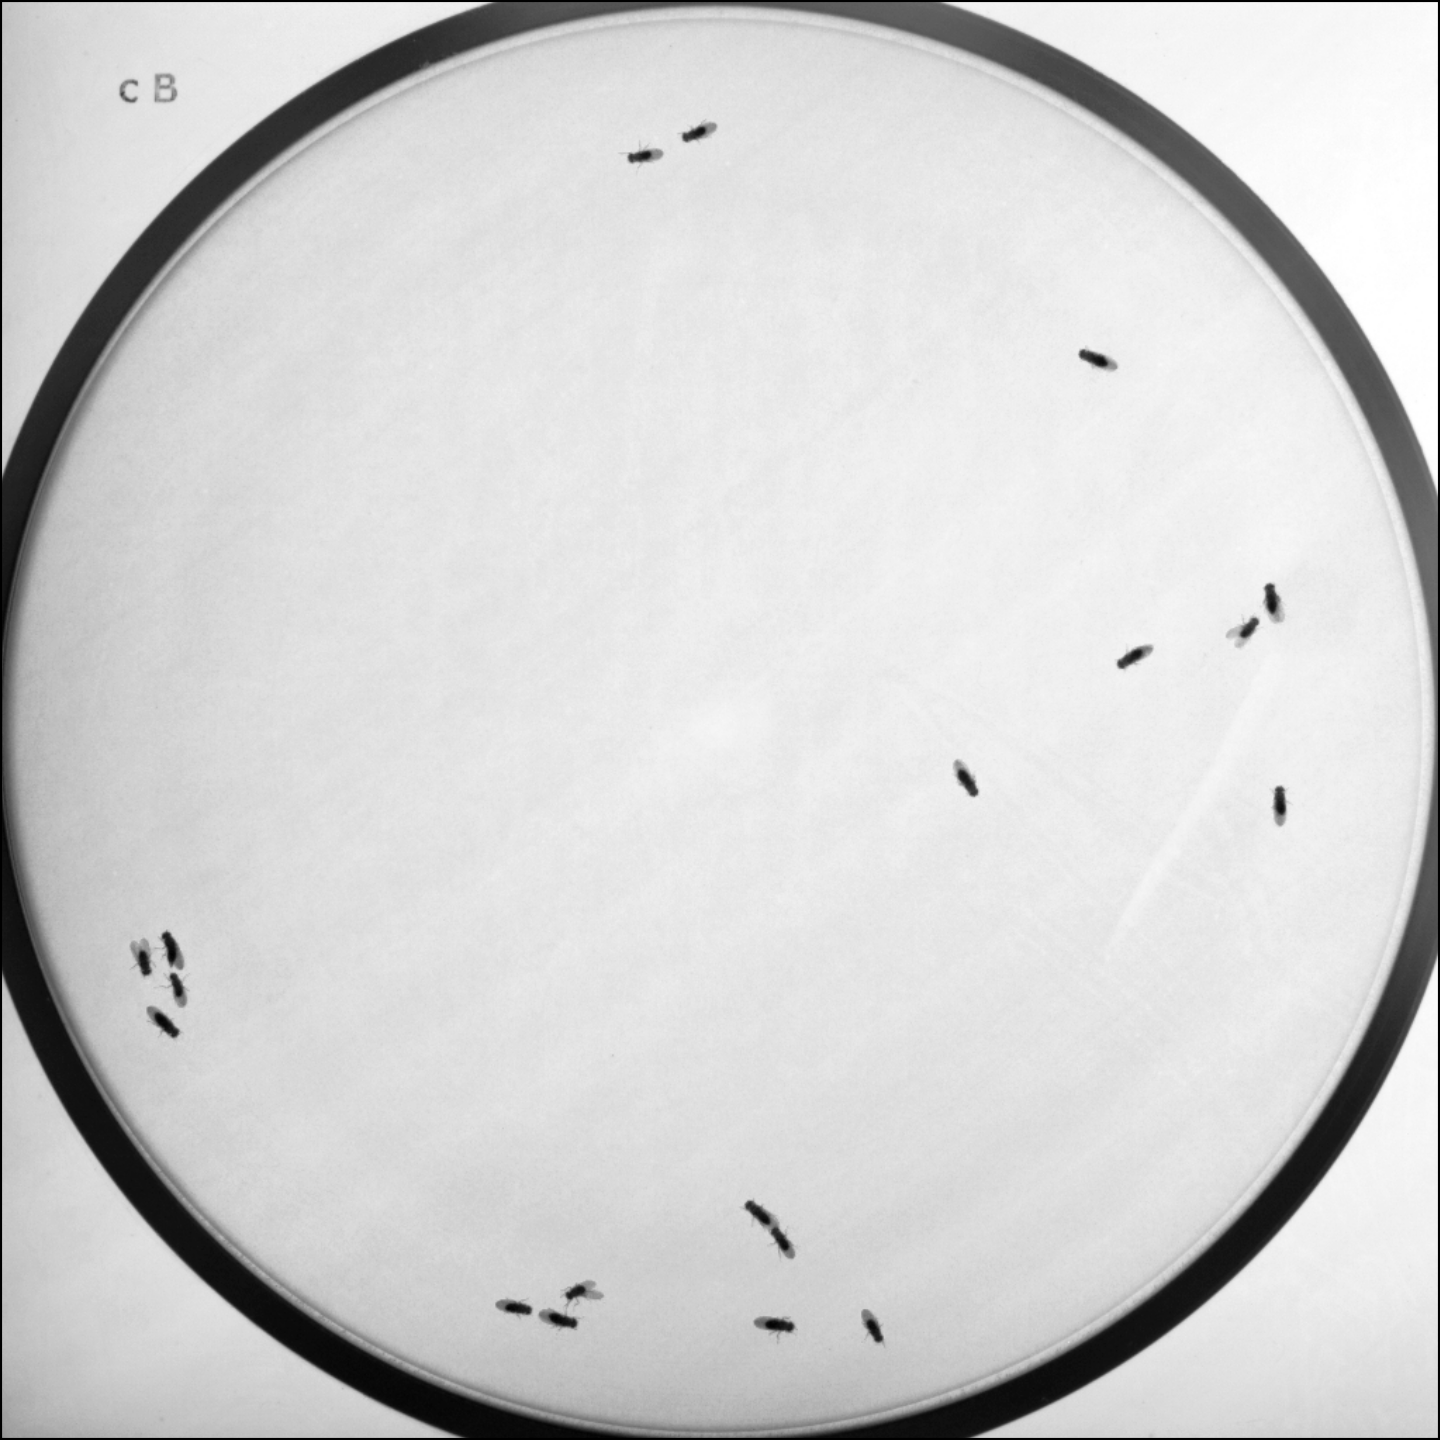
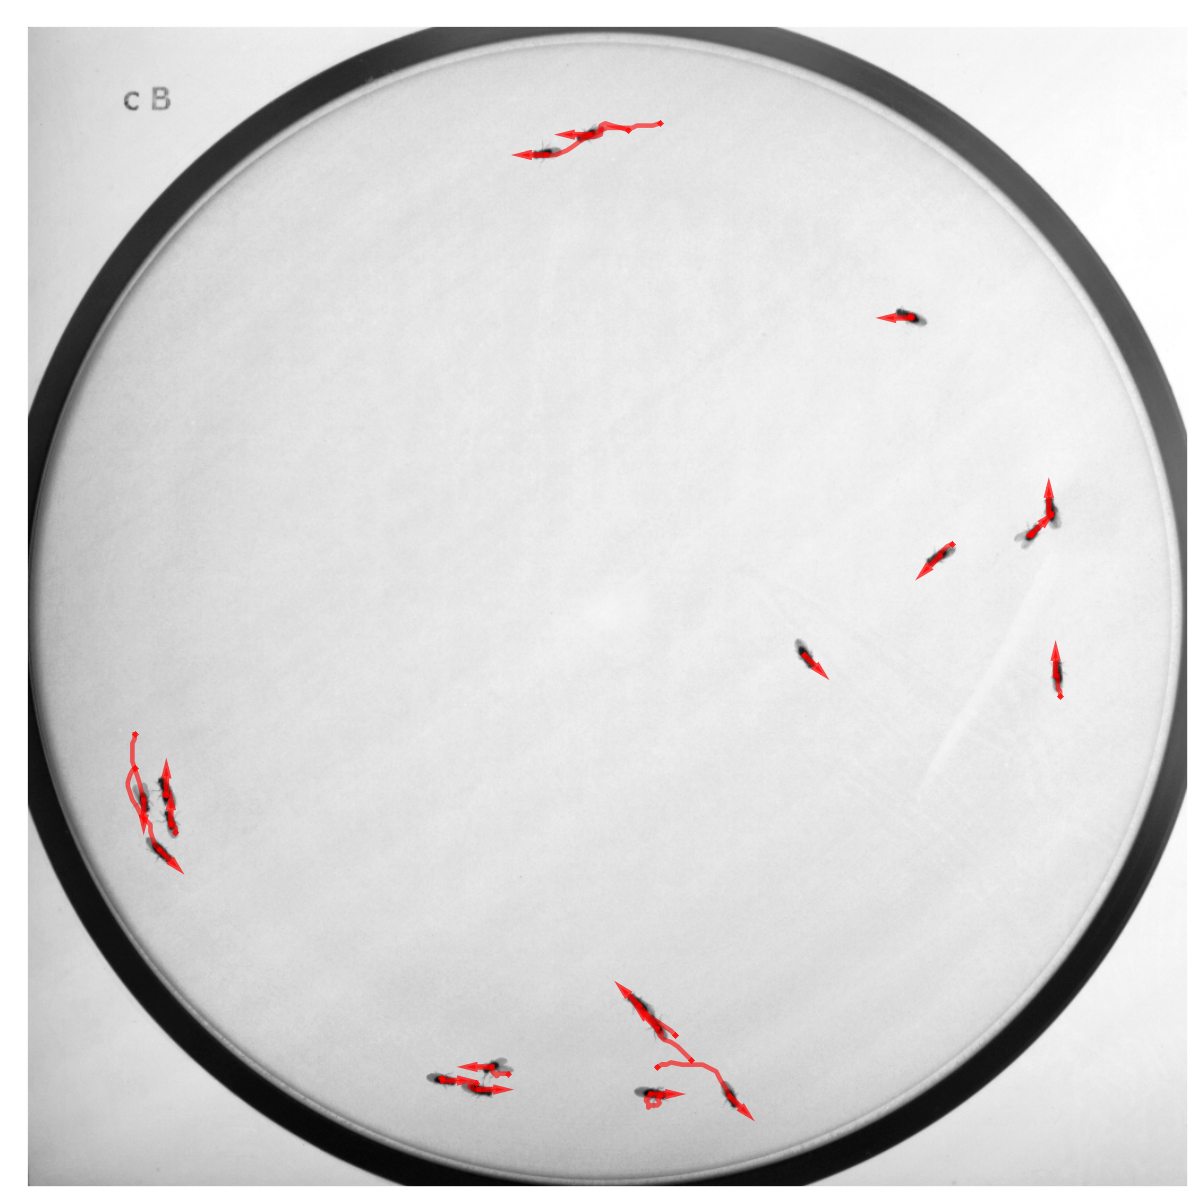
runs for fly frames 2970 to 2989

diff --git a/fly/tracker.py b/fly/tracker.py
@@ -58,8 +58,8 @@ class Tracker:
     #hypotheses: object of class Hypotheses with hypotheses information
     #max_move_per_frame: only hypotheses with this or lower distance get possible connections
     #threshold_abs: minimal value of scores, important for detection features that no detection energy is always higher than detection energy
-    def __init__(self, hypotheses, threshold_abs, max_move_per_frame = 25):
-        self.graph = GraphDict()
+    def __init__(self, hypotheses, threshold_abs, max_move_per_frame = 25, optimizerEpGap=0.05):
+        self.graph = GraphDict(optimizerEpGap=optimizerEpGap)
         self.threshold_abs = threshold_abs
         self.max_move_per_frame= max_move_per_frame
         #save hypotheses input in own datastructure
@@ -76,8 +76,8 @@ class Tracker:
         self.graph_complete = False
         #attributes for initialization of first and last frame
         self.neutral_feature=[[0.],[0.]] 
-        self.detection_reward = -9.*10**6.
-        self.no_detection_reward = -9.*10**6
+        self.detection_reward = -9.*10**3.
+        self.no_detection_reward = -9.*10**3
         #current id for enumerate hypothesis
         self.current_id = 1 
         #ids of true objects in first frame  
@@ -353,37 +353,67 @@ class Tracker:
     #draw track history in images
     #path_imgs_clean: relative path to raw images without tracks, raw images should have name in format RawData_2970.png
     #path_imgs_tracks: relative path to raw images with tracks, track images have name in format Track_2970.png
-    #coordinates: result of get_coordinates
+    #length_arrow: length of arrow in pixels for visualization of orientation of object
     #rescale_factor: factor for rescaling from scoremap to orginal img
-    def draw_tracks(self, path_imgs_clean, path_imgs_tracks, rescale_factor=2.):
+    def draw_tracks(self, path_imgs_clean, path_imgs_tracks, length_arrow, rescale_factor=2.):
         time_interval = self.last_t - self.first_t
-        for dt in np.arange(1, time_interval+1):
+        for dt in np.arange(0, time_interval+1):
             img = mpimg.imread(path_imgs_clean + 'RawData_' + str(self.first_t+dt) + '.png')
             fig = plt.figure()
+            #fig.set_size_inches(float(img.shape[1])/float(img.shape[0]), 1., forward=False)
+            #ax = plt.Axes(fig, [0., 0., 1., 1.])
+            #ax.set_axis_off()
+            #fig.add_axes(ax)
             ax = fig.add_subplot(1,1,1)
             ax.imshow(img, cmap=matplotlib.cm.Greys_r)
-            ax.get_xaxis().set_visible(False)
-            ax.get_yaxis().set_visible(False)
             #extent = ax.get_window_extent().transformed(fig.dpi_scale_trans.inverted())
-            """
+            
             for start_id in self.start_ids:
                 track_ids = self.get_track(start_id)
-                coordinates = self.get_coordinates(track_ids)    
+                coordinates = self.get_coordinates(track_ids)  
+                ax.scatter(rescale_factor*coordinates[0][1], rescale_factor*coordinates[0][0], marker='x', color='r', s=0.5, alpha=0.7)
+                #for coordinate in coordinates:
+                   # print( coordinate[0])  
                 #print('length of coordinates', len(coordinates))
                 line_x = []
                 line_y = []
-                for step in np.arange(min(dt+1, len(coordinates))):
+                track_length = min(dt+1, len(coordinates))
+                for step in np.arange(track_length):
                     line_x.append(rescale_factor * coordinates[step][0])
                     line_y.append(rescale_factor * coordinates[step][1])
-                ax.plot(line_y, line_x, linewidth=0.8)
-            """
+                ax.plot(line_y, line_x, linewidth=1., color='r', alpha=0.6)
+                arrow_x_start = line_x[-1]
+                arrow_y_start = line_y[-1]
+                arrow_delta_x = np.sin(np.pi/180.*coordinates[track_length-1][2])*length_arrow
+                arrow_delta_y = -np.cos(np.pi/180.*coordinates[track_length-1][2])*length_arrow
+                if not len(line_x) == 0:
+                    ax.arrow(arrow_y_start, arrow_x_start, arrow_delta_x , arrow_delta_y , head_width=4, head_length=8, fc='r', ec='r', alpha=0.7, width=0.8)
+            ax.get_xaxis().set_visible(False)
+            ax.get_yaxis().set_visible(False)
             #ax.axis('off')
             #ax.set_aspect(abs((extent[1]-extent[0])/(extent[3]-extent[2])))
             #ax.set_aspect('equal')
             #fig.subplots_adjust(left=0, right=1, top=1, bottom=0)
             #fig.tight_layout()
-            fig.savefig(path_imgs_tracks + 'Track_' + str(self.first_t+dt) + '.png', cmap=matplotlib.cm.Greys_r, bbox_inches='tight', pad_inches=0, dpi=300)
-           
+            fig.savefig(path_imgs_tracks + 'Track_' + str(self.first_t+dt) + '.png', cmap=matplotlib.cm.Greys_r, bbox_inches='tight', pad_inches=-0.6, dpi=330)
+
+
+#function to find true_det_idc when using new lower threshold
+#hypos_old: hypos of old threshold array [samples, attributes]
+#true_det_old: indices of true detection with old threshold
+#hypos new: hypos of new threshold array [samples, attributes]
+def find_hypo_idx(hypos_new, true_det_old, hypos_old):
+    true_det_new = []
+    for old_det_idx in true_det_old:
+        old_detection = hypos_old[old_det_idx,:] 
+        n_samples_new = hypos_new.shape[0]
+        for idx in np.arange(n_samples_new):
+            if (old_detection == hypos_new[idx,:]).all():
+                true_det_new.append(idx)
+                break
+    return true_det_new
+    
+       
 
 if __name__ == "__main__":
     
@@ -394,7 +424,9 @@ if __name__ == "__main__":
 
     #read in parameter
     path_scoremaps = '../../Deformabel-Part-Model/ccv/samples/fly/pred/scoremap/'
-    threshold_abs = 0.35
+    energy_gap_graphical_model = 0.02
+    threshold_abs = 0.08
+    threshold_abs_035 = 0.35
     max_move_per_frame = 25
     start_idx = 2970
     n_idx = 20
@@ -403,14 +435,21 @@ if __name__ == "__main__":
     """
     generate hypotheses
     """  
-    hypotheses = Hypotheses()
+    hypotheses_035 = Hypotheses()
     #hypotheses.add_frame(1, feature)
     
         
     for idx in np.arange(start_idx, start_idx + n_idx):
         stack = ScoreStack(idx, n_rot, x_center=x_center, y_center=y_center, path_scoremaps=path_scoremaps)
-        hypotheses.add_frame(idx, stack.extract_hypotheses(threshold_abs=threshold_abs))
+        hypotheses_035.add_frame(idx, stack.extract_hypotheses(threshold_abs=threshold_abs_035))
+    
+    hypotheses = Hypotheses()
      
+    for idx in np.arange(start_idx, start_idx + n_idx):
+        stack = ScoreStack(idx, n_rot, x_center=x_center, y_center=y_center, path_scoremaps=path_scoremaps)
+        hypotheses.add_frame(idx, stack.extract_hypotheses(threshold_abs=threshold_abs))
+    
+
     #print( 'last frame:')
     #print hypotheses.frames[-1][1]
     #print len(hypotheses.frames[-1][1])
@@ -419,14 +458,20 @@ if __name__ == "__main__":
     perform tracking
     """
 
-    tracker = Tracker(hypotheses, threshold_abs, max_move_per_frame=max_move_per_frame)
-    true_det_first_t = [0, 3, 5, 6, 7, 8, 13, 14, 15, 16, 18, 20, 21, 24, 25, 26, 27, 29, 31]
-    true_det_last_t = [0, 1, 2, 3, 4, 5, 9, 10, 13, 12, 14, 18, 19, 20, 21, 22, 23, 31, 32]
+    tracker = Tracker(hypotheses, threshold_abs, max_move_per_frame=max_move_per_frame, optimizerEpGap=energy_gap_graphical_model)
+    true_det_first_t_035 = [0, 3, 5, 6, 7, 8, 13, 14, 15, 16, 18, 20, 21, 24, 25, 26, 27, 29, 31]
+    true_det_last_t_035 = [0, 1, 2, 3, 4, 5, 9, 10, 13, 12, 14, 18, 19, 20, 21, 22, 23, 31, 32]
+    true_det_first_t = find_hypo_idx(hypotheses.frames[0][1], true_det_first_t_035, hypotheses_035.frames[0][1])
+    true_det_last_t = find_hypo_idx(hypotheses.frames[-1][1], true_det_last_t_035, hypotheses_035.frames[-1][1])
     #put all energies on one scale
     weights = [10./float(max_move_per_frame),1./180., 10., 1., 1. ] #[trans_move, trans_angle, detection, appearance, disappearance ]
-    tracker.track(true_det_first_t, true_det_last_t, weights, print_result=True)
-    print ('dest', tracker.find_dest(15))
+    tracker.track(true_det_first_t, true_det_last_t, weights, print_result=False)
     tracker.print_status()
-    tracker.draw_tracks('images_with_tracks/clean/', 'images_with_tracks/with_tracks/')
+    tracker.draw_tracks('images_with_tracks/clean/', 'images_with_tracks/with_tracks/', length_arrow=15)
+    print true_det_first_t
+    print true_det_last_t
     #for track_id in tracker.start_ids:
-     #   print tracker.draw_track('images_with_tracks' ,tracker.get_coordinates(tracker.get_track(track_id)))
+     #   track_x = [float(track_id)]
+      #  for coordinate in  tracker.get_coordinates(tracker.get_track(track_id)):
+       #     track_x.append(coordinate[0])
+        #print track_x
